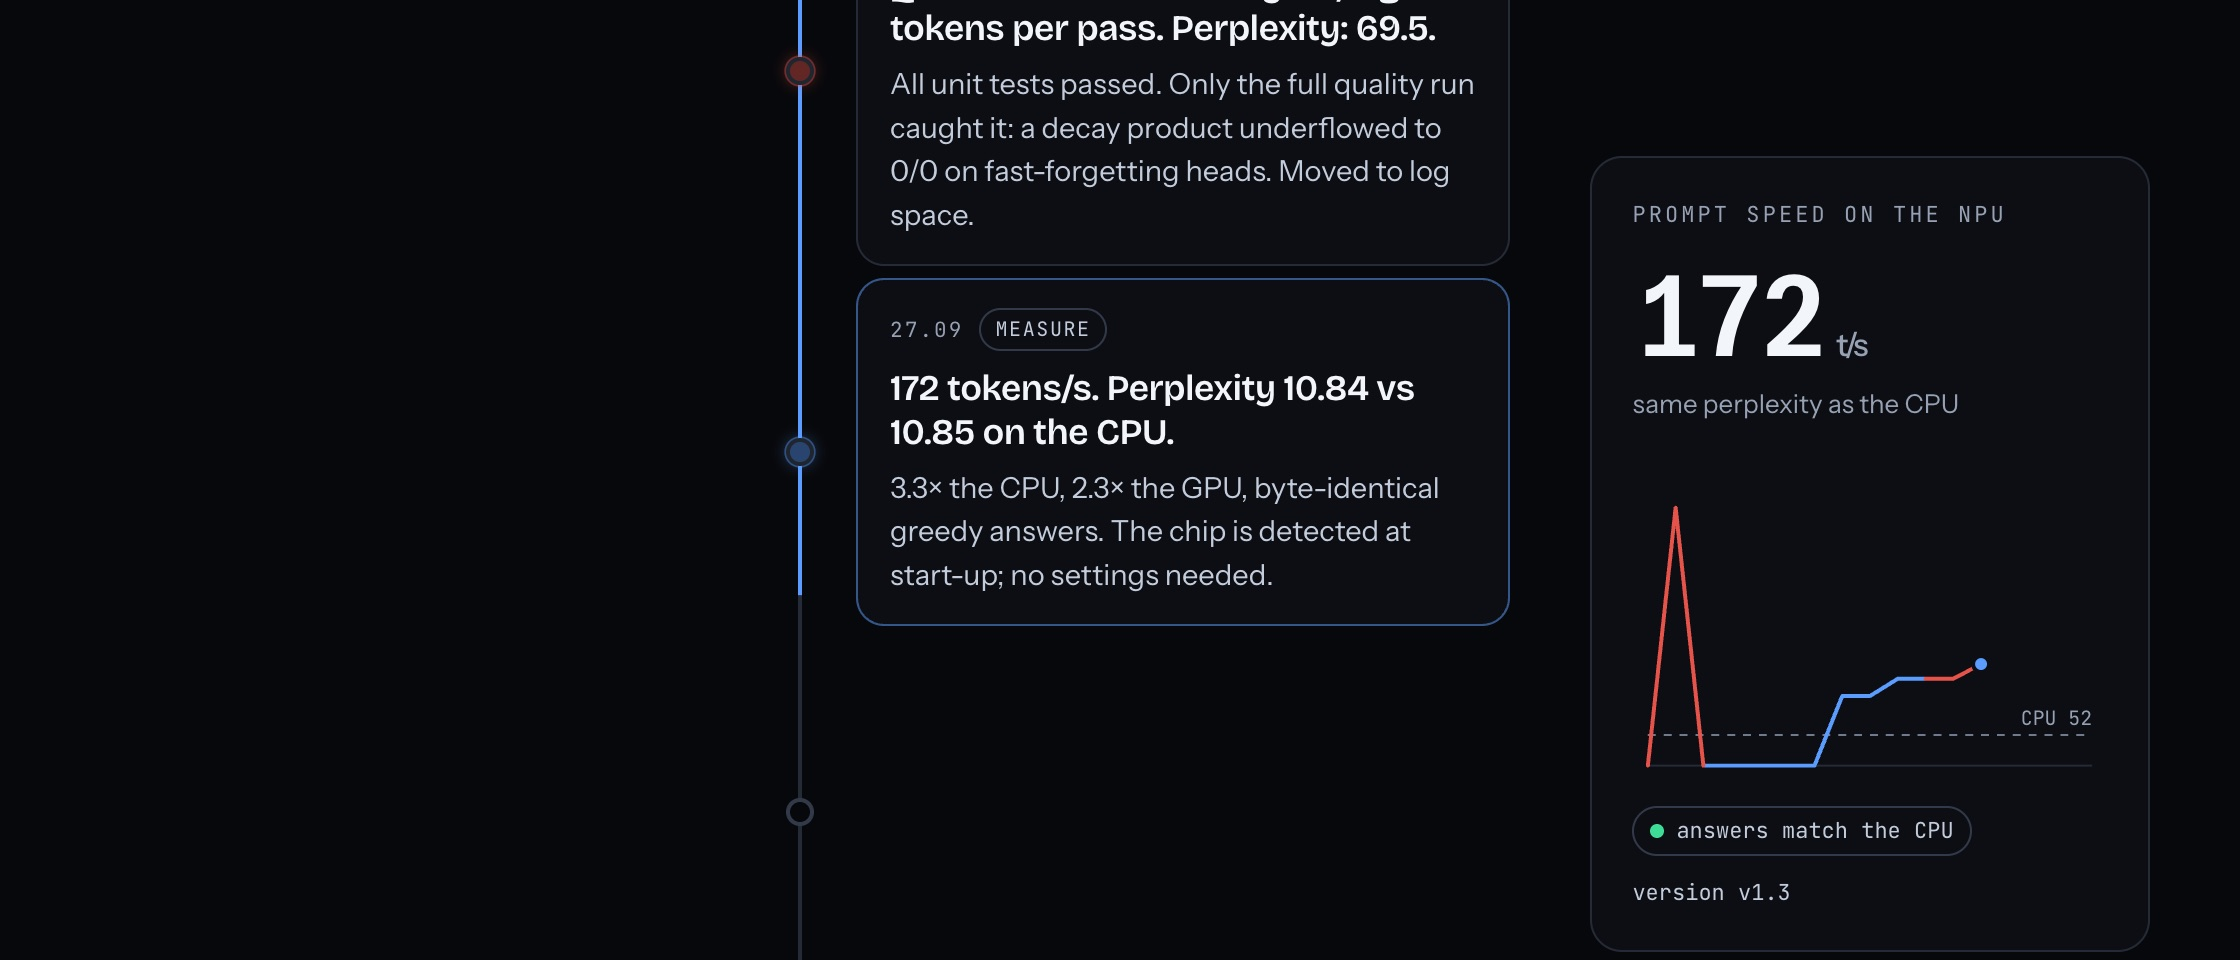
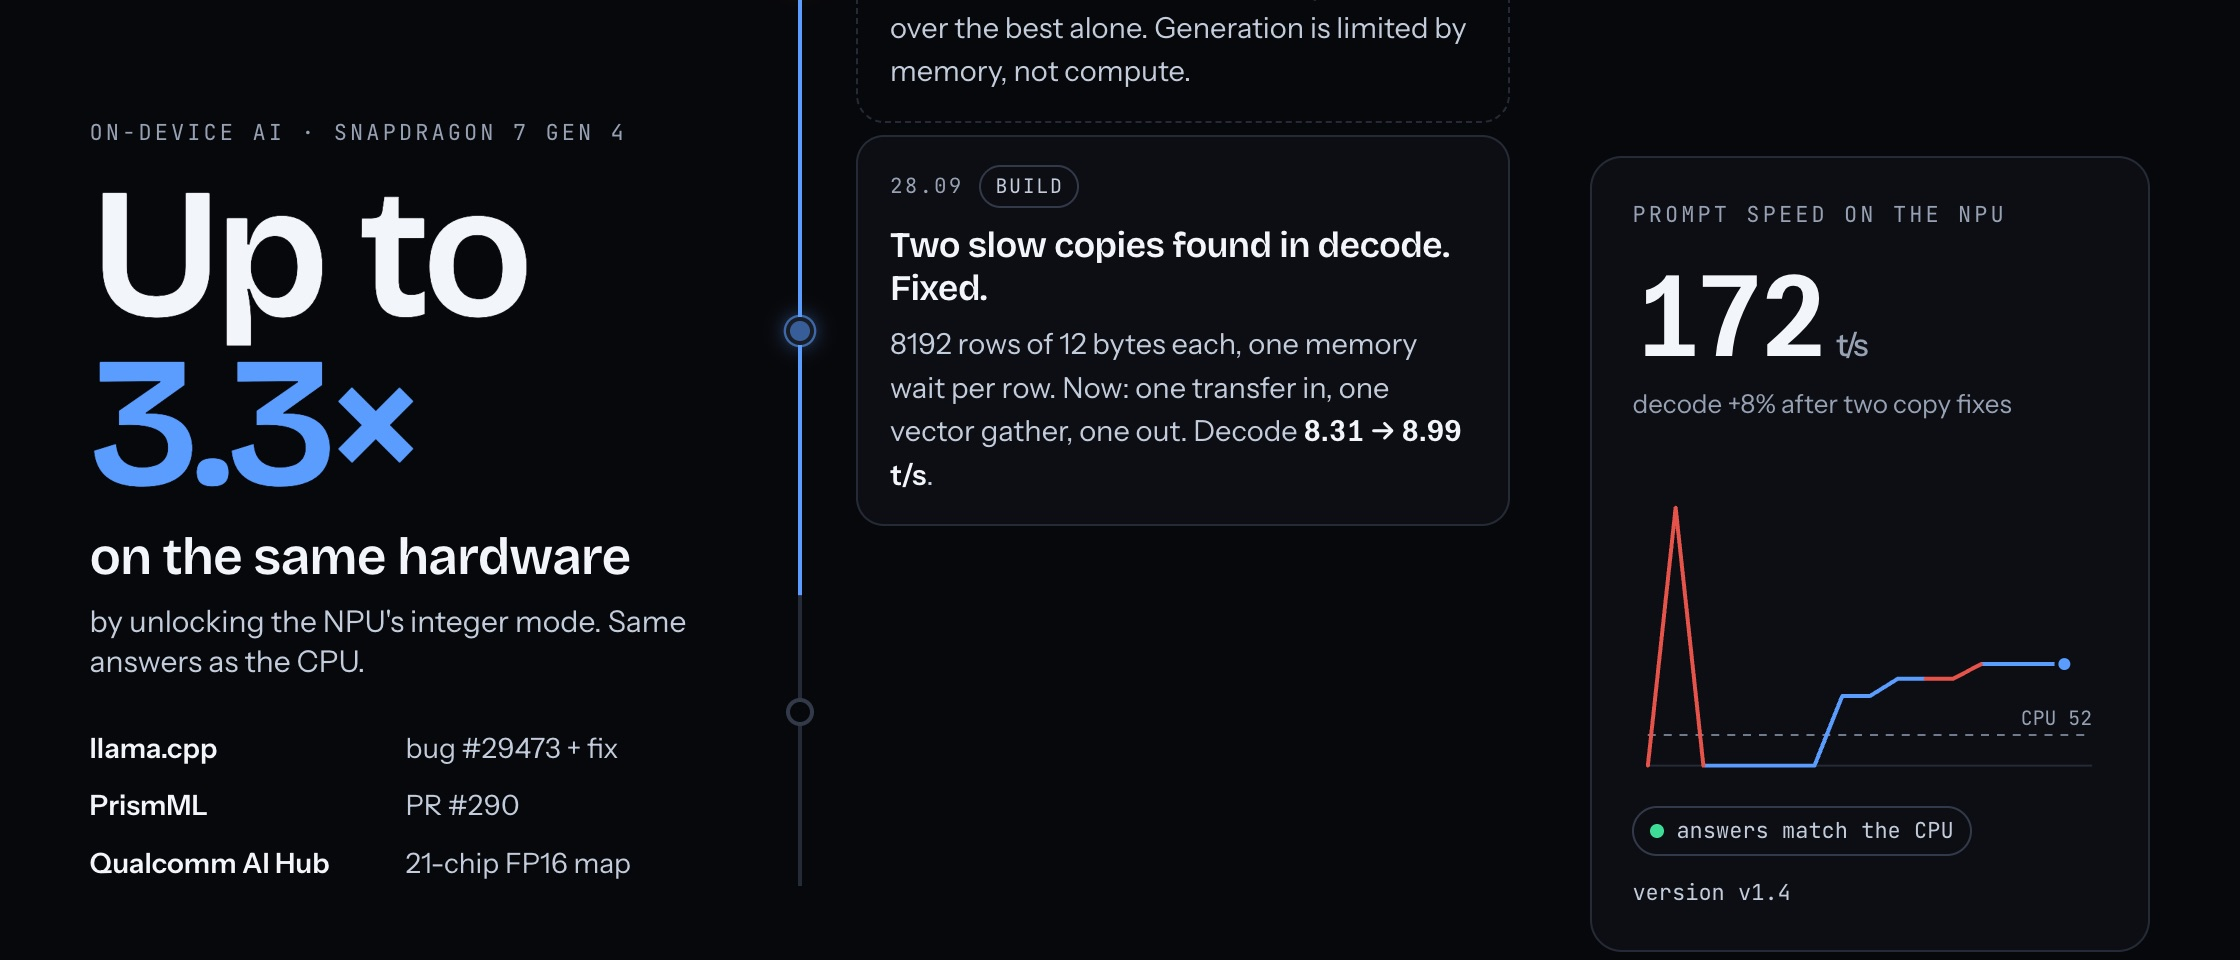
NPU case card: headline and upstream work on the image, v1.4 moment

diff --git a/npu/index.html b/npu/index.html
@@ -185,6 +185,16 @@ footer{padding:56px 0 80px;color:var(--dim);font-size:14px}
 .shot #trace{border:0;padding-top:0}
 .shot #trace .shead{visibility:hidden}
 .shot .replay{display:none}
+.shotpanel{display:none}
+.shot .shotpanel{display:block;position:fixed;left:calc((100vw - min(1120px,92vw))/2);top:58px;width:318px;z-index:10}
+.shotpanel .k{font-family:var(--mono);font-size:11px;letter-spacing:.14em;text-transform:uppercase;color:var(--dim)}
+.shotpanel .big{font-family:var(--display);font-weight:600;letter-spacing:-.04em;line-height:.92;font-size:92px;margin-top:10px;color:var(--text)}
+.shotpanel .big span{color:var(--accent)}
+.shotpanel .l1{font-family:var(--display);font-weight:600;font-size:26px;letter-spacing:-.02em;line-height:1.1;margin-top:10px}
+.shotpanel .l2{font-size:15px;color:var(--muted);margin-top:8px;line-height:1.35}
+.shotpanel .up{margin-top:22px;display:flex;flex-direction:column;gap:7px}
+.shotpanel .up div{font-size:14px;color:var(--muted);display:flex;gap:8px;align-items:baseline}
+.shotpanel .up b{color:var(--text);font-weight:600;min-width:150px}
 .shot .gauge{position:fixed;top:78px;right:calc((100vw - min(1120px,92vw))/2);width:280px}
 @media(prefers-reduced-motion:reduce){
   .rv,.step .card{opacity:1!important;transform:none!important;transition:none!important}
@@ -391,6 +401,17 @@ footer{padding:56px 0 80px;color:var(--dim);font-size:14px}
 
 <footer><div class="wrap">Ruslan Karymov · AI Enablement &amp; Automation Lead · <a href="../">karusrus.github.io</a> · September 2026</div></footer>
 <div class="tip" id="tip"></div>
+<div class="shotpanel" aria-hidden="true">
+  <div class="k">On-device AI · Snapdragon 7 Gen 4</div>
+  <div class="big">Up to <span>3.3×</span></div>
+  <div class="l1">on the same hardware</div>
+  <div class="l2">by unlocking the NPU's integer mode. Same answers as the CPU.</div>
+  <div class="up">
+    <div><b>llama.cpp</b>bug #29473 + fix</div>
+    <div><b>PrismML</b>PR #290</div>
+    <div><b>Qualcomm AI Hub</b>21-chip FP16 map</div>
+  </div>
+</div>
 
 <script>
 (() => {

diff --git a/index.html b/index.html
@@ -421,7 +421,7 @@ footer{padding:60px 0 80px;color:var(--dim);font-size:13px;border-top:1px solid 
 
     <div class="grid five">
       <article class="pcard wide rv">
-        <div class="metric">3.3× faster prompts · same answers as the CPU</div>
+        <div class="metric">v1.4 · open source · same answers as the CPU</div>
         <div class="win">
           <div class="bar"><i></i><i></i><i></i><span>llama.cpp · Snapdragon 7 Gen 4 NPU · integer HMX</span></div>
           <div class="shot"><img loading="lazy" decoding="async" src="assets/w-npu.jpg" alt="The reasoning trace from the NPU case: a step card reading 172 tokens per second with the same perplexity as the CPU, next to a gauge whose history shows a fake 437 t/s spike, a drop to zero and a climb past the CPU line"></div>
